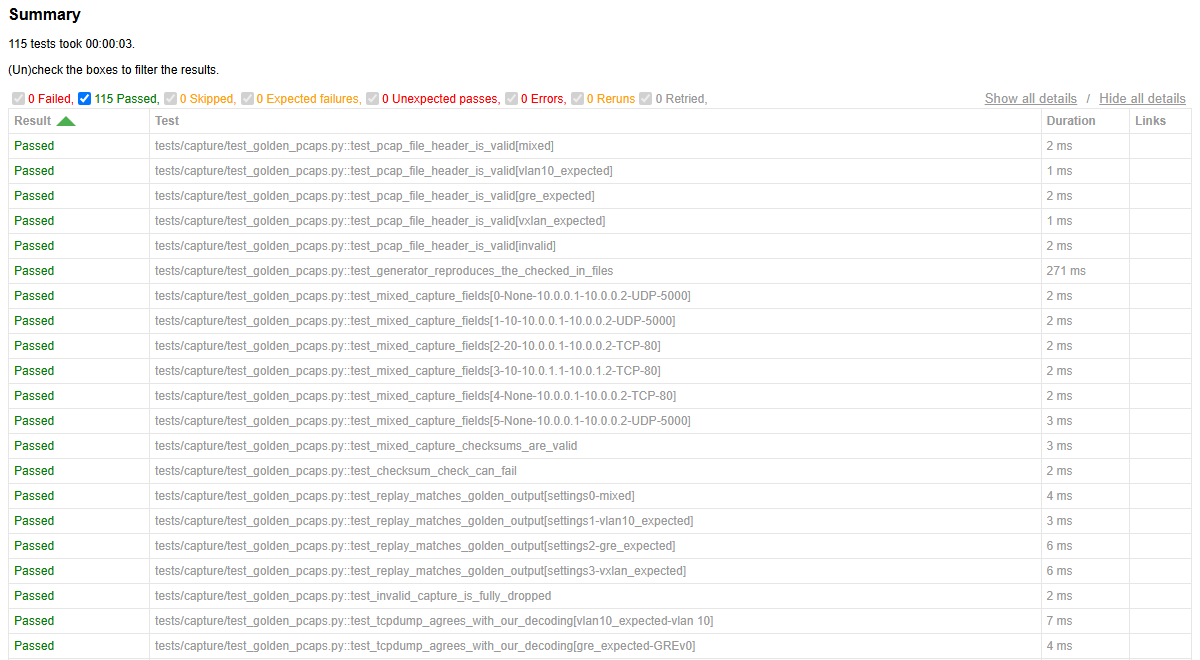
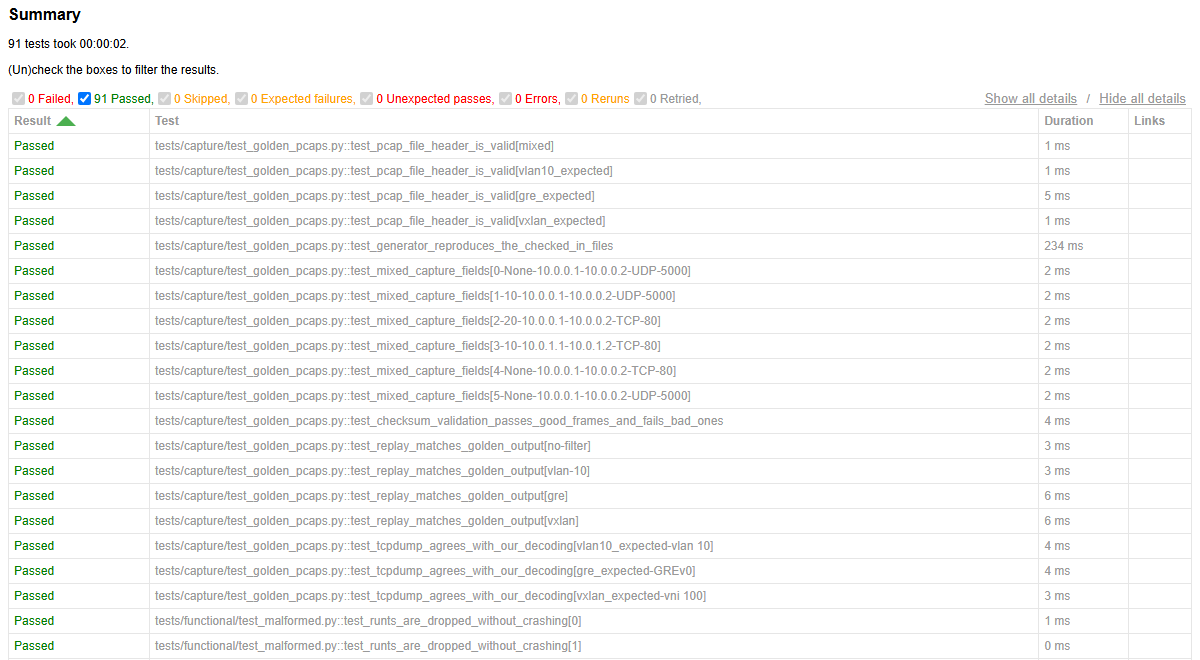
README: one diagram, and a screenshot of the final report

diff --git a/README.md b/README.md
@@ -26,22 +26,8 @@ flowchart LR
     M --> O[Checks: scapy, raw bytes,<br/>tcpdump, golden pcaps]
 ```
 
-The integration tests run the same broker over real Linux veth pairs:
-
-```mermaid
-flowchart LR
-    subgraph pb-src
-        S[src0]
-    end
-    subgraph pb-dut
-        A[dut-in] --> BR[PacketBroker] --> C[dut-mon]
-    end
-    subgraph pb-mon
-        M[mon0]
-    end
-    S -- veth --> A
-    C -- veth --> M
-```
+The integration tests run the same broker over real Linux veth pairs, with one network namespace
+each for the traffic source (`pb-src`), the broker (`pb-dut`) and the monitor (`pb-mon`).
 
 ## Layout
 
